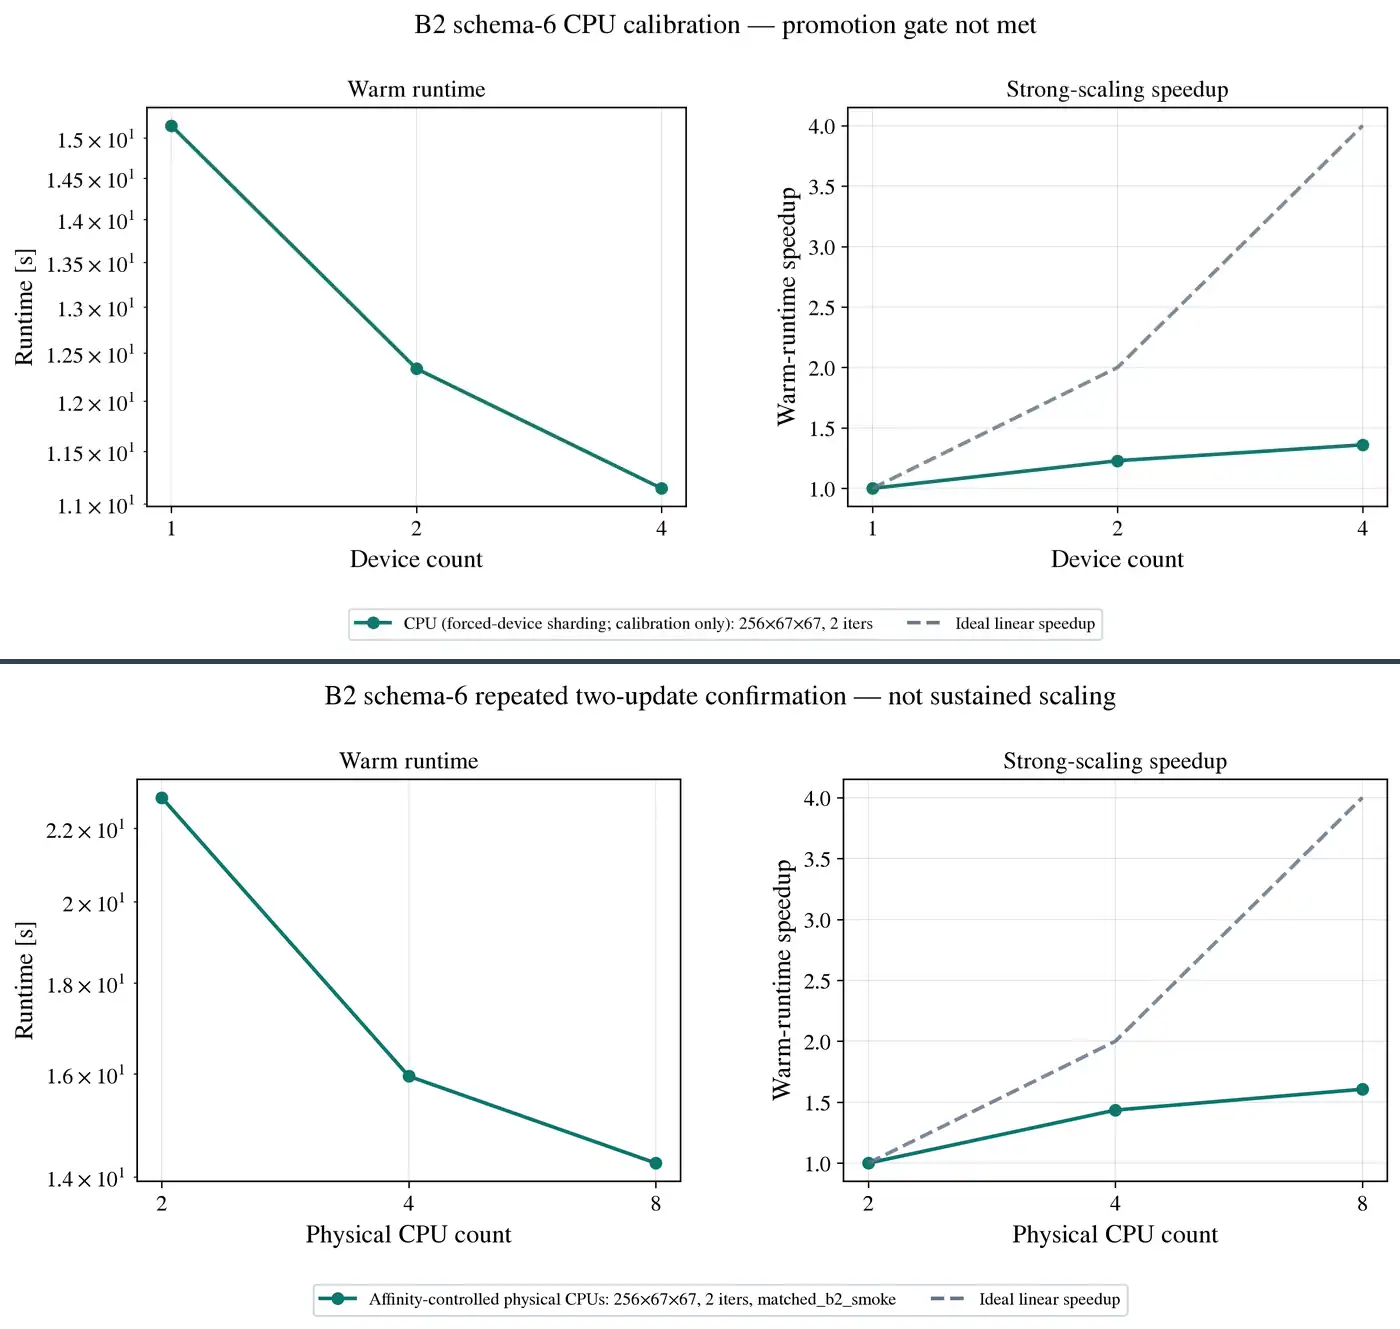
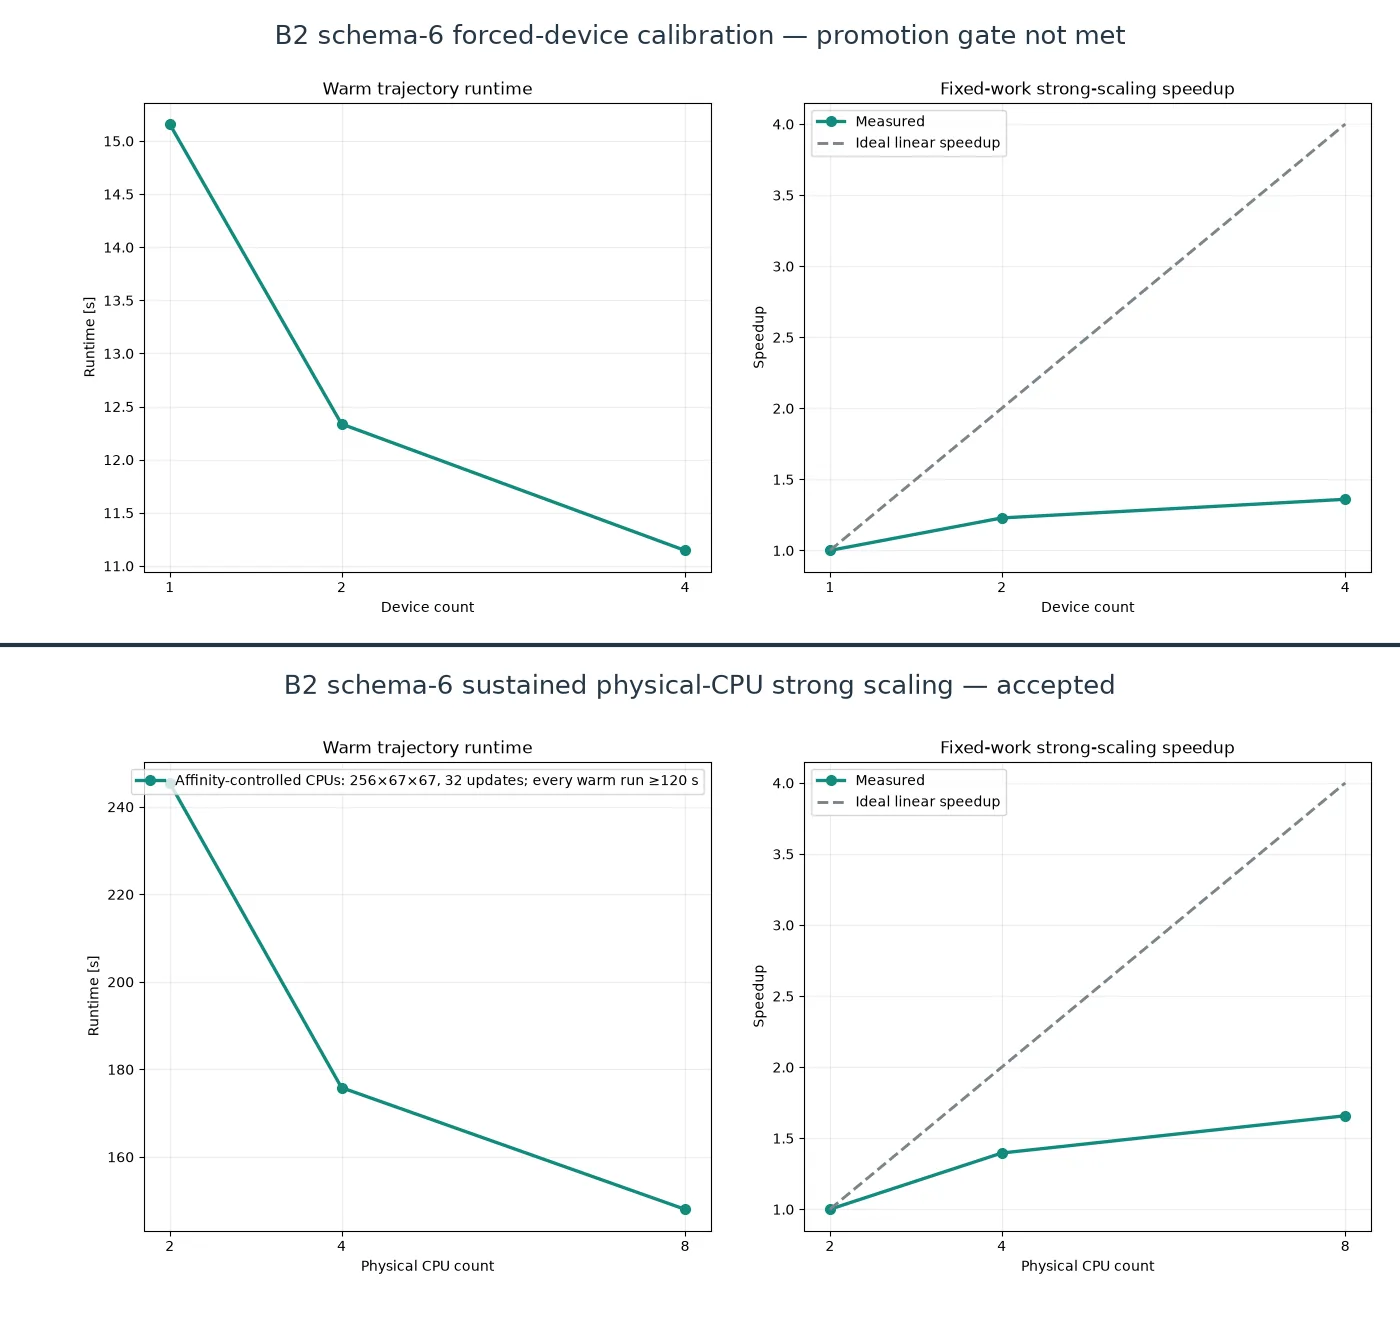
Publish sustained CPU strong scaling

diff --git a/docs/performance.md b/docs/performance.md
@@ -4,14 +4,13 @@ LMX runs through JAX on CPUs and GPUs. Performance claims are accepted only for
 the real solver path with identical numerical results; visibility of multiple
 devices alone is not evidence of parallel execution.
 
-![Current B2 schema-6 forced-device calibration and physical-core pilot](_static/strong_scaling.webp)
+![Current B2 schema-6 calibration and sustained physical-CPU scaling](_static/strong_scaling.webp)
 
 This composite is generated from the accepted schema-6 CPU record. The upper
-panel is forced-device calibration; the lower panel is an affinity-controlled
-2/4/8-CPU repeated confirmation. Both use two solver updates, so neither is
-sustained or steady-production strong scaling. Current one/two-GPU topology is
-green but omitted because the shared-host replay is correctness evidence, not
-a timing curve.
+panel is forced-device calibration; the lower panel is accepted sustained
+fixed-work scaling on affinity-controlled 2/4/8 CPUs. Current one/two-GPU
+topology is green but omitted because the shared host has not yet passed the
+idle gate for timing.
 
 ## Current evidence
 
@@ -21,6 +20,7 @@ a timing curve.
 | B2 CPU smoke | Apple M4, `8 x 7 x 7`, 1/2/4 forced CPU devices | current-source pressure observable agrees within `5.93e-15`; closure and exact restart pass | production sharding correctness; too small for scaling claims |
 | B2 schema-6 CPU calibration | Apple M4, `256 x 67 x 67`, 1/2/4 forced CPU devices | 15.159/12.337/11.146 s; 1.229x/1.360x speedup; exact restart and device equivalence pass | accepted correctness/calibration; four-device promotion gate not met |
 | B2 physical-core confirmation | ARM64 Docker on Apple M4, `256 x 67 x 67`, 2/4/8 affinity-controlled CPUs for 1/2/4 devices | 22.894/15.953/14.252 s; 1.435x/1.606x; 95% lower bounds 1.364x/1.548x; efficiency 71.8%/40.2% | repeated two-update calibration; not sustained or steady-production scaling |
+| B2 sustained CPU scaling | same grid/masks, 32 updates, three warm trajectories per topology | 245.465/175.837/148.026 s; 1.396x/1.658x; 95% lower bounds 1.378x/1.655x; efficiency 69.8%/41.5%; CV below 0.71% | accepted fixed-work physical-CPU strong scaling; not steady-state evidence |
 | B2 pseudo-time gate | Apple M4, corrected warm `7 x 7 x 7`, canonical `Ha=2900`, `N=540` equations | 64x/32x/16x map-rate spread 0.0768%; raw updates halve; exact restart | 64x refrozen; versioned stopping threshold open |
 | B2 physical-residual probe | Apple M4, `7 x 7 x 7` | residual 0.03870 at step 90; omitted reconstruction force is 0.0880 at step 4 | diagnostic has a plausible coarse split floor; never a stopping gate |
 | physical-core restart audit | existing `101 x 77 x 77` coarse checkpoints | geometry/shape load, but sampled files normalize to `legacy_nonexact` with no source fingerprint or schema-6 Anderson/compact-flux state | unsuitable for exact or promoted current-source scaling evidence |
@@ -172,12 +172,16 @@ The preflight therefore fixed two physical CPUs per device and reran nested
 2/4/8-CPU masks. Warm medians fall from 7.351 to 5.546/4.574 seconds, giving
 1.325x/1.607x speedups and 66.3%/40.2% efficiency. All affinity, placement,
 restart, repeat, conservation, linear, Anderson, and cross-topology gates pass.
-The six-repeat `256 x 67 x 67` confirmation reports 22.894, 15.953, and 14.252
+The six-repeat `256 x 67 x 67` calibration reports 22.894, 15.953, and 14.252
 second warm medians. Its 1.435x/1.606x speedups, 1.364x/1.548x 95% lower bounds,
-and 71.8%/40.2% efficiencies pass the frozen calibration gates. These are
-repeated short trajectories, not one sustained multi-minute solve. The worker
-must next support configurable update counts and an exact split restart so each
-measured warm trajectory lasts at least 120 seconds on every topology.
+and 71.8%/40.2% efficiencies pass the frozen calibration gates, but the runs
+are short. A 20-update duration pilot then failed closed at 95.63–97.51 s.
+The promoted 32-update workload measures 245.465, 175.837, and 148.026 s on
+2/4/8 CPUs, with every warm sample above 120 s. Speedups are 1.396x/1.658x,
+their 95% lower bounds are 1.378x/1.655x, and efficiencies are 69.8%/41.5%.
+CVs remain below 0.71%; midpoint restart is exact and all schema-6, physics,
+placement, and cross-topology gates pass. This accepts sustained fixed-work CPU
+strong scaling, not steady convergence or B2 solution acceptance.
 
 The medium B2 tight solve converged across two restart-safe segments and ended
 at residual `2.500e-5`, divergence `1.829e-6`, and charge residual `1.149e-4`.
@@ -393,11 +397,10 @@ than silently reused.
 
 ## Next performance work
 
-1. Generalize the matched worker to exact split restart for sustained update counts.
-2. Run at least 120 measured seconds per CPU and GPU topology on identical state/input.
-3. Compare six tiny Anderson updates with the fixed-relaxation control.
-4. If that passes, run the bounded step-29 then strict step-96 outcome gates.
-5. Close canonical coarse/medium/fine and experimental-observable acceptance.
+1. Run the same 120-second minimum protocol on one/two GPUs after the host passes the idle gate.
+2. Compare six tiny Anderson updates with the fixed-relaxation control.
+3. If that passes, run the bounded step-29 then strict step-96 outcome gates.
+4. Close canonical coarse/medium/fine and experimental-observable acceptance.
 
 See [Testing](testing.md) for the portable gate and [Benchmark matrix](benchmark_matrix.md)
 for physics promotion criteria.

diff --git a/plan.md b/plan.md
@@ -34,8 +34,10 @@ optimization but miss the four-device bound. It is a two-update forced-device
 calibration, not a physical-core or production strong-scaling claim. Schema-6
 topology, explicit component placement, and exact serialized replay pass on
 one and two GPUs; shared-host timing is excluded. The affinity-controlled
-physical-CPU path passes repeated two-update calibration, but sustained
-multi-minute CPU/GPU scaling remains open. The fixed-work harness now accepts
+physical-CPU path now passes accepted 32-update sustained scaling: every warm
+trajectory lasts 147--246 s, speedup is 1.396x/1.658x on 4/8 versus 2 CPUs,
+and all confidence, efficiency, restart, and physics gates pass. Sustained GPU
+scaling remains open pending the idle-host gate. The fixed-work harness accepts
 an explicit update count, checkpoints at the deterministic midpoint, replays
 the remaining trajectory, and can require every warm sample to exceed 120 s;
 the two-update default remains the bounded CI/debug gate. This
@@ -372,12 +374,15 @@ That confirmation is complete. Its 22.894/15.953/14.252-second warm medians
 give 1.435x/1.606x speedups, 1.364x/1.548x 95% lower bounds, and
 71.8%/40.2% efficiency; all correctness and calibration gates pass. These are
 five repeated samples of a two-update trajectory, not sustained strong scaling.
-The next implementation must generalize the matched input and worker to a
-configurable update count with an exact split restart. Actual CPU and GPU
-scaling rungs must each measure at least 120 post-warm-up seconds in one
-trajectory on identical state/input, while preserving the same placement,
-restart, linear, conservation, Anderson, and cross-topology gates. Do not claim
-production scaling from accumulated short repeats.
+The generalized fixed-work worker then rejected a 20-update duration pilot at
+95.63--97.51 s and promoted 32 updates. On identical `256 x 67 x 67` input,
+2/4/8-CPU warm medians are 245.465/175.837/148.026 s, giving
+1.396x/1.658x speedups, 1.378x/1.655x 95% lower bounds, and 69.8%/41.5%
+efficiency. CVs are below 0.71%; midpoint replay is exact and every placement,
+linear, conservation, Anderson, and cross-topology gate passes. Accept this as
+sustained fixed-work physical-CPU strong scaling, not steady-state or B2
+solution acceptance. Apply the same protocol to GPUs only after the shared
+host passes the 60-second idle/no-foreign-work gate.
 
 The existing `101 x 77 x 77` coarse checkpoints were screened before launching
 that ladder. Three representative files match the current geometry and solver
@@ -519,7 +524,8 @@ The next validation sequence is fail-closed:
    sustained `tau_map=0.005` passes plus exact replay and the frozen pressure,
    velocity, pressure-gradient, linear, conservation, and sharding limits;
 5. only then authorize a fresh canonical coarse schema-6 run. Medium/fine,
-   production FreeMHD, and accepted-workload strong scaling remain blocked.
+   production FreeMHD, sustained GPU timing, and steady-production scaling
+   remain blocked.
 
 Failure at any rung stops before a coarse run and retains fixed relaxation two
 as the historical control. After the parallel algorithm settles, consolidate

diff --git a/README.md b/README.md
@@ -135,14 +135,15 @@ Q2D-MHDfoam parity and blanket validation remain open.
 
 ## Scale on CPUs and GPUs
 
-![Current B2 schema-6 forced-device calibration and physical-core pilot](https://raw.githubusercontent.com/uwplasma/LMX/main/docs/_static/strong_scaling.webp)
+![Current B2 schema-6 calibration and sustained physical-CPU scaling](https://raw.githubusercontent.com/uwplasma/LMX/main/docs/_static/strong_scaling.webp)
 
 Schema-6 B2 agrees on 1/2/4 forced CPU devices with exact restart replay. At
 `256 × 67 × 67`, two/four devices reach 1.229×/1.360×; four devices still miss
-the promotion gate. An affinity-controlled 256×67×67 repeated calibration
-reaches 1.606× on eight versus two physical CPUs with its confidence and
-efficiency gates green. Each trajectory is only two updates, so sustained and
-production scaling remain open. Two-GPU topology is current.
+the promotion gate. On affinity-controlled physical CPUs, 32-update warm
+trajectories last 148–246 s and reach 1.396×/1.658× on four/eight versus two
+CPUs; confidence, efficiency, restart, and physics gates pass. This is accepted
+fixed-work CPU strong scaling, not steady-state evidence. Two-GPU topology is
+current; sustained GPU timing awaits an idle host.
 [Protocol and results →](https://lmx.readthedocs.io/en/latest/performance.html)
 
 ## Quality and citation

diff --git a/docs/media.md b/docs/media.md
@@ -54,7 +54,7 @@ SHA-256; `python scripts/manage_release_assets.py --check` verifies it locally.
 | Q2D external diagnostics | 87,350 | 1,000 × 1,509 WebP | released sources `5bc14089...` and `11f452c1...`; external parity explicitly open |
 | manufactured operators | 41,120 | 1,600 × 624 WebP | bounded example; orders 2.00/1.94/1.91; `test_example_runner.py` / `test_plotting.py` |
 | Samper Benchmark A | 74,438 | 1,405 × 913 WebP | accepted aggregate `9f94ea15...`; eight rows; JSON-only writer/test |
-| B2 schema-6 CPU evidence | 49,758 | 1,400 × 1,329 WebP | forced-device calibration plus affinity-controlled 2/4/8-CPU repeated confirmation from `b2-schema6-cpu-scaling-20260716.json`; neither is sustained or steady-production scaling |
+| B2 schema-6 CPU evidence | 55,186 | 1,400 × 1,329 WebP | forced-device calibration plus accepted 32-update, 2/4/8-CPU sustained fixed-work scaling from `b2-schema6-cpu-scaling-20260716.json`; not steady-state evidence |
 | Hunt startup | 114,866 | 440 × 287 animated WebP, 7 s | Python/Pillow derivative of source GIF `12f30a38...`; 42 frames |
 | checked sensitivities | 32,612 | compressed WebP | released derivative `f2add9fe...` |
 | geometry gallery | 61,600 | compressed WebP | released derivative `e844f069...` |

diff --git a/docs/developer_guide.md b/docs/developer_guide.md
@@ -17,7 +17,7 @@ exports and the curated catalog contains 11 workflows. Lightweight import is
 about 19 ms on the audited development machine. Advanced APIs import from their
 owning submodules; see the [migration guide](migration.md).
 
-The current tracked checkout is 4,450,473 bytes, below its 4.5 MiB hard cap.
+The current tracked checkout is 4,460,334 bytes, below its 4.5 MiB hard cap.
 Sixty-five generated files larger than 128 KiB were bundled in the versioned release
 indexed by [`release-assets.json`](release-assets.json)
 and removed only after a fresh download passed archive membership, size, and
